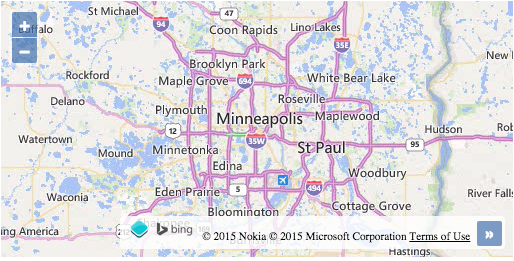
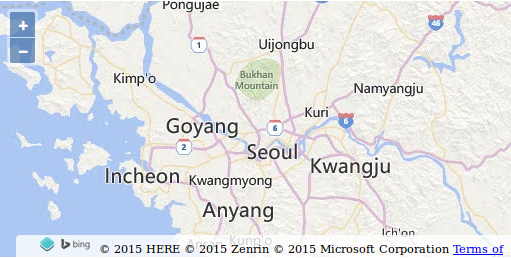
Zoom to Seoul

diff --git a/src/layers/cached.md b/src/layers/cached.md
@@ -28,7 +28,7 @@ The [OpenStreetMap (OSM)](http://www.openstreetmap.org/) project is an effort to
           })
         ],
         view: new ol.View({
-          center: ol.proj.fromLonLat([-93.27, 44.98]),
+          center: ol.proj.fromLonLat([126.97, 37.56]),
           zoom: 9
         }),
         controls: ol.control.defaults({
@@ -66,7 +66,7 @@ Review the view definition of the map:
 
 ```js
   view: new ol.View({
-    center: ol.proj.fromLonLat([-93.27, 44.98]),
+    center: ol.proj.fromLonLat([126.97, 37.56]),
     zoom: 9
   })
 ```

diff --git a/src/layers/proprietary.md b/src/layers/proprietary.md
@@ -60,7 +60,7 @@ Your revised `map.html` file should look something like this:
           })
         ],
         view: new ol.View({
-          center: ol.proj.fromLonLat([-93.27, 44.98]),
+          center: ol.proj.fromLonLat([126.97, 37.56]),
           zoom: 9
         })
       });
